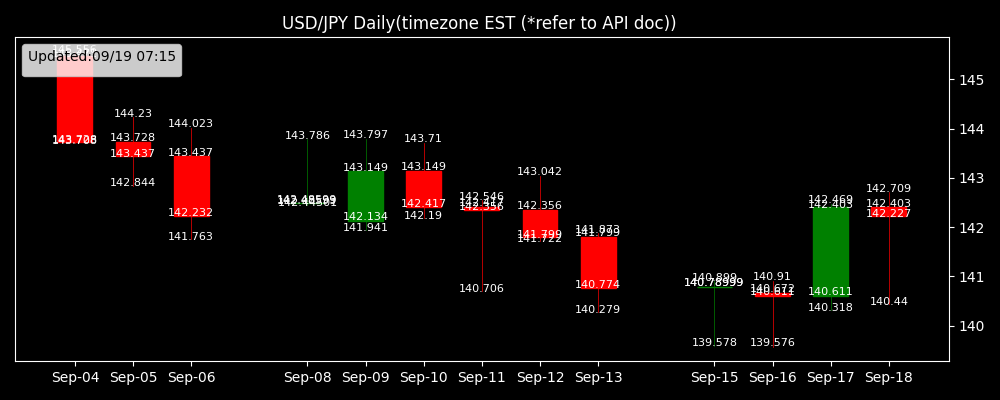
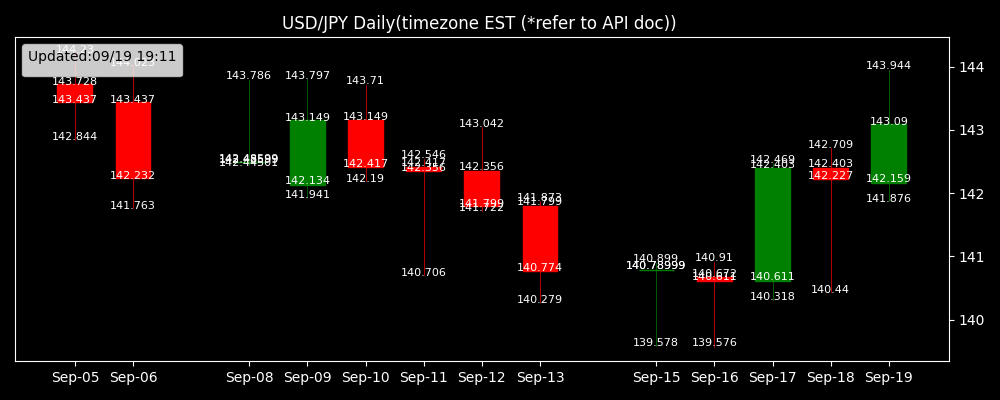
deploy: ed0eb35ab0a5dc6e10e63bc5072bfb5b5475a540

diff --git a/docs/src/dashboard/marketinfo.html b/docs/src/dashboard/marketinfo.html
@@ -14,14 +14,26 @@
     </style>
 </head>
 <body>
-    <h3> 概況 (更新： 09/19 07:15 ) </h3>
-    <p>最近の為替市場では、ドル円が変動する中、価格の動きが注目されています。最新のデータによれば、ドル円は9月18日に142.227でクローズしています。前日の9月17日には142.403でクローズしており、これは安定的に142円台を維持していることを示しています。しかし、9月13日から15日にかけては140円台後半で推移しており、短期間で140円から142円への上昇が見られました。
+    <h3> 概況 (更新： 09/19 19:11 ) </h3>
+    <p>以下の為替データに基づくと、2024年9月上旬から中旬にかけて、為替レートは一定の変動を見せている。特に注目すべきポイントは以下の通りである。
 
-この動きの背景には、米国と日本の経済指標や中央銀行の政策発表が影響している可能性があります。特に、米連邦準備制度理事会（FRB）が利上げ方針を維持する意向を示していることが、ドルの買い支えに寄与していると考えられます。また、日本銀行の低金利政策が継続する中で、円の弱含みが続いていることも影響を与えていると見られます。
+1. **期間全体を通じての傾向**：
+   - 9月5日から6日にかけては高値144.23 円に達した一方、9月19日にはいくつかの変動を経て143.09円でクローズしている。この期間中の最安値は9月18日の140.44円である。
 
-取引量の変動も注視するポイントです。特に9月12日の取引量が突出して高いことが目立ちます。この日は143円台を一時的に超える動きがあり、投資家の積極的な取引が確認されます。一方、9月15日には取引量がゼロであったことから、市場は週末の静けさを反映していることが伺えます。
+2. **ボラティリティ**：
+   - 取引量の増減から見て、市場の活発性には波があるものの、大半の取引日は比較的安定したボラティリティが見られる（例：9月13日から9月19日までの範囲）。
 
-まとめると、最近のドル円は142円台での安定を示しながらも、短期間での急速な変動が見られます。市場参加者は今後の経済指標や政策変更に対する警戒感を持ちつつ、次の動きを見極めている状況です。</p>
+3. **特定日の動き**：
+   - 9月12日は他の日と比較して取引量が極めて大きく、1482072となっている。この日の高値は143.042円、安値は141.722円であり、大きな動きを示している。
+   - 同様に、9月10日も高い取引量と比較的大きな値幅（142.19円と143.71円の間）を見せている。
+
+4. **連続的な上昇と下降**：
+   - 9月16日から19日にかけての上昇は注目に値する。この間にレートは徐々に上昇し、140.611円から143.09円へと変化している。
+
+5. **市場の反応**：
+   - 一部の金融アナリストは、アメリカの経済指標発表や日本銀行の政策発表がこの期間内の為替変動に影響している可能性があると指摘している。
+
+全般的に、この期間には顕著なボラティリティが観察される一方で、市場の根底には安定感が存在するように見える。ニュース報道とリンクさせた場合には、特定の経済指標や中央銀行の動向が影響を与えているかもしれない。さらなる分析は複数のファクターと相関させることでより明確になるだろう。</p>
 
     <p>Text generated from ChatGPT API.</p>
 

diff --git a/docs/src/dashboard/forecast_text.html b/docs/src/dashboard/forecast_text.html
@@ -6,19 +6,17 @@
 </head>
 <body>
     <h3>今日の天気 (09-19 Thu)</h3>
-    <p>### 天気予報 (東京、2024年9月19日)
+    <p>今日の東京の天気をお伝えします。
 
-- **気温**: 最低 24.4°C (6時)、最高 30.0°C (16時)
-- **降水確率**: ほぼ0%（終日雨なし）
-- **天気**: 主に晴れ、時々曇り
+全天候的には、東京の9月19日は概ね晴れの一日となりそうです。朝方は一部曇りの時間帯もありますが、午後には再び晴れ間が広がります。夕方から夜にかけて短時間の雨が降る可能性がありますので、お出かけの際は一応雨具を持参しておくと安心です。
 
-### その他の重要な情報
+気温の変化についてですが、最低気温は24.6°C、最高気温は29.9°Cとなる予報です。暑い一日となるので、水分補給をお忘れなく。
 
-- **日照時間**: 約4時間50分
-- **UVインデックス**: 最大 5.85（中程度）
+次に日照時間とUV指数についてです。今日の東京の予想日照時間は14678秒（約4.1時間）で、UV指数は最大6.2となります。UV指数が6以上は「高い」に分類されるので、特に正午前後は紫外線対策が必要です。
 
-### 日傘の必要性について
-UVインデックスが5.85で中程度の日差しが予想されますので、外出時には日傘があると日焼け対策になります。長時間外にいる予定があれば、日傘や帽子、および日焼け止めの使用を推奨します。</p>
-    (更新：09/19 07:15)
+**総合的なアドバイス：** 日傘を持っていくことを強くお勧めします。直射日光からの保護だけでなく、夕方から夜にかけての短時間の雨にも対応できますので、一石二鳥です。
+
+以上が今日の天気予報です。良い一日をお過ごしください！</p>
+    (更新：09/19 19:11)
 
 </html>
